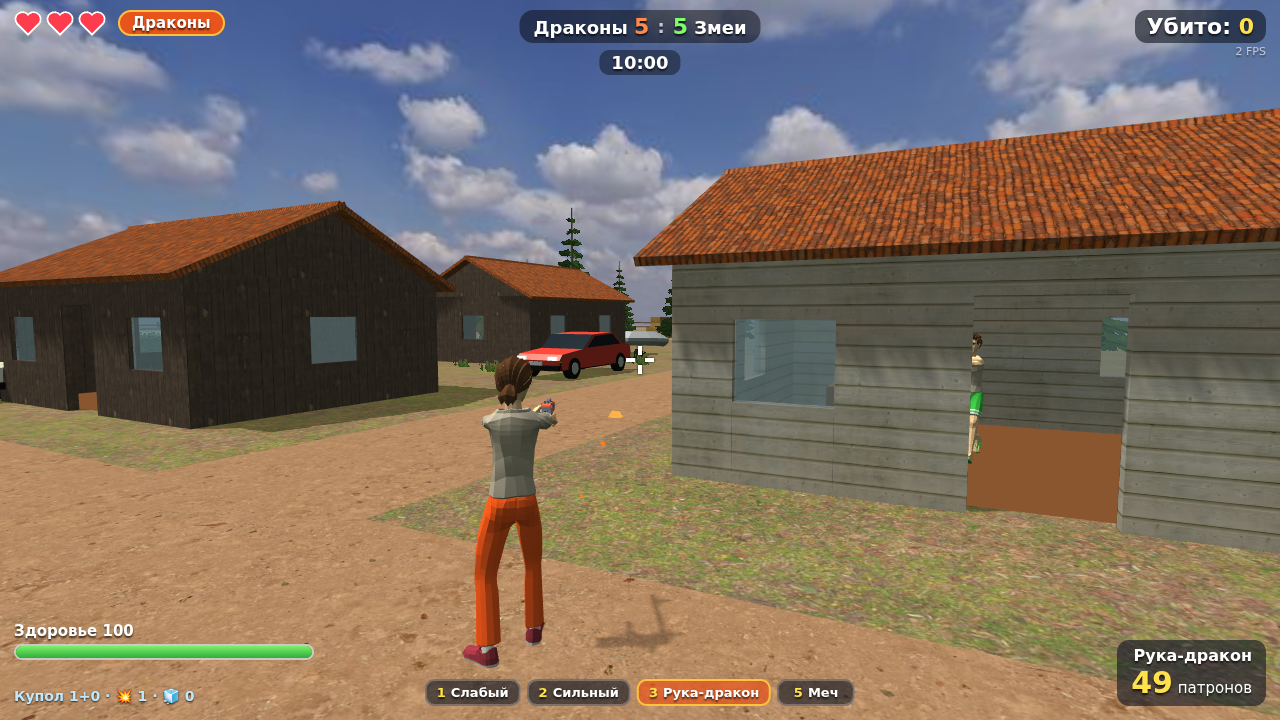
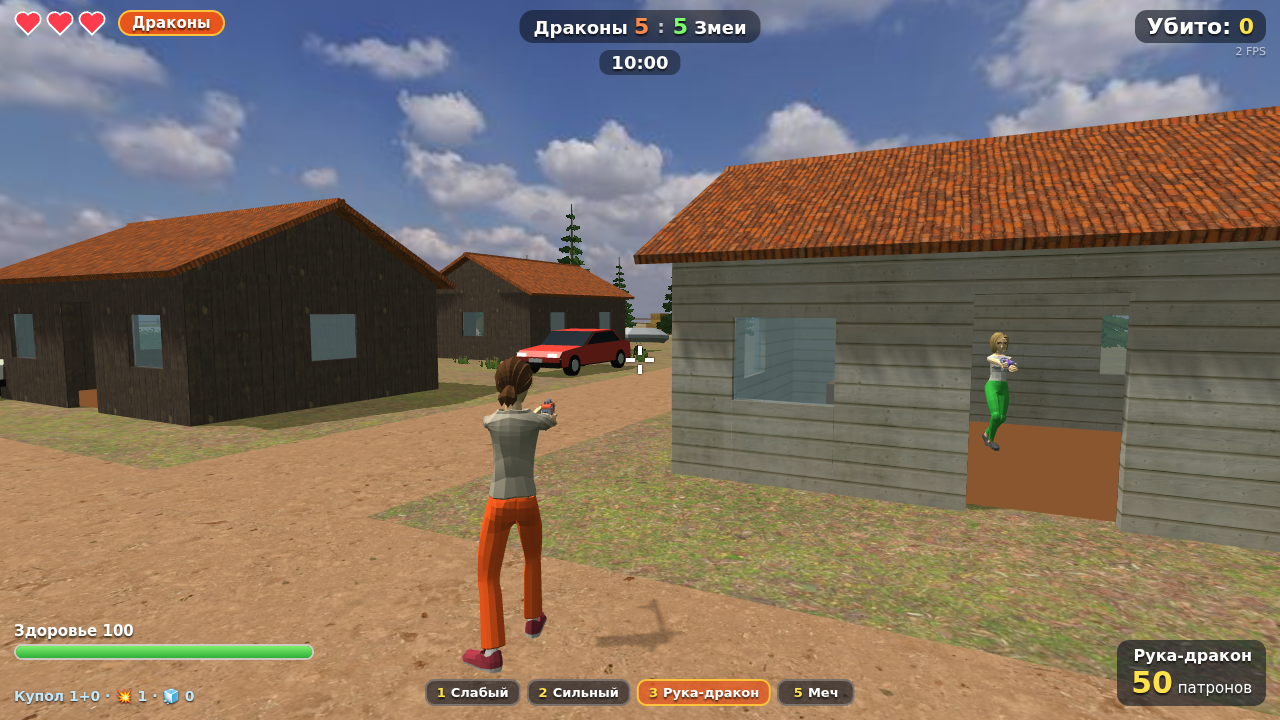
Level 3: solo at the factory, resources respawn elsewhere
90x90 m factory compound (sheds, chimney, stacked containers, bushes and
boulders), the player alone against 4 enemies with 3 lives each, no flags
and no animals: win by knocking out the whole enemy clan. Ammo chests and
medkits come back after their timer at a new random spot. Unlocked by a
win on level 2. Smoke: level 3 solo setup, relocating medkit, victory;
sticky test no longer flaky.

diff --git a/client/src/game.ts b/client/src/game.ts
@@ -266,10 +266,13 @@ export class Game {
 
     // Команды 5 на 5: сначала враги (botCount), потом союзники — на одного меньше, ведь игрок тоже в команде
     const enemy = enemyClan(opts.clan);
-    for (let i = 0; i < opts.botCount; i++) {
+    const enemies = (opts.level ?? 1) === 3 ? Math.min(4, opts.botCount) : opts.botCount;
+    for (let i = 0; i < enemies; i++) {
       this.bots.push(new Bot(scene, enemy, BOT_WEAPONS[i % BOT_WEAPONS.length]));
     }
-    for (let i = 0; i < opts.botCount - 1; i++) {
+    // Уровень 3 — соло: союзников нет
+    const allies = (opts.level ?? 1) === 3 ? 0 : opts.botCount - 1;
+    for (let i = 0; i < allies; i++) {
       this.bots.push(new Bot(scene, opts.clan, BOT_WEAPONS[(i + 1) % BOT_WEAPONS.length], true));
     }
     // В каждой команде двое штурмовиков: в свободное время идут за вражеским флагом
@@ -437,7 +440,7 @@ export class Game {
     // Места — свободные точки карты (детерминированно), по одной на зону
     const rnd = makeRng(31);
     // Зоны уровня 1, на уровне 2 растягиваются на большую карту
-    const k = this.world.level === 2 ? 1.5 : 1;
+    const k = this.world.level === 2 ? 1.5 : this.world.level === 3 ? 0.65 : 1;
     const zones: [number, number, number, number][] = (
       [
         [-40, -20, 40, 20],
@@ -471,6 +474,7 @@ export class Game {
         if (this.now >= m.respawnAt) {
           m.active = true;
           m.mesh.setEnabled(true);
+          this.relocate(m, 0.24);
         }
         continue;
       }
@@ -1175,7 +1179,9 @@ export class Game {
   private spawnAnimals(): void {
     const near = (x: number, z: number) => this.world.randomWalkPoint(this.rng, new Vector3(x, 0, z), 6);
     const place: [Animal["kind"], number, number][] =
-      this.world.level === 2
+      this.world.level === 3
+        ? []
+        : this.world.level === 2
         ? [
             ["wolf", 55, 60],
             ["wolf", 57, 62],
@@ -1768,8 +1774,8 @@ export class Game {
         return;
       }
     }
-    // Захват флагов
-    for (const owner of ["dragons", "snakes"] as const) {
+    // Захват флагов (на соло-уровне флагов нет — только перестрелка)
+    for (const owner of this.world.level === 3 ? [] : (["dragons", "snakes"] as const)) {
       const base = this.world.bases[owner];
       const cap = this.capture[owner];
       const inZone = (t: Target) =>
@@ -1826,6 +1832,7 @@ export class Game {
         else if (this.state === "playing") this.damagePlayer(dmg);
       },
       objective: (b) => {
+        if (this.world.level === 3) return null;
         // Свой флаг захватывают — все бегут защищать; иначе штурмовики идут за чужим
         if (this.capture[b.clan].by) return this.world.bases[b.clan].flagPoint;
         return b.attacker ? this.world.bases[enemyClan(b.clan)].flagPoint : null;
@@ -2036,12 +2043,21 @@ export class Game {
       if (!c.active && this.now >= c.respawnAt) {
         c.active = true;
         c.mesh.setEnabled(true);
+        this.relocate(c);
       }
       if (c.active) {
         c.mesh.position.y = c.pos.y + 0.32 + bob;
         c.mesh.rotation.y = this.now * 0.8;
       }
     }
+  }
+
+  /** Уровень 3: ресурс появляется снова, но в другом случайном месте */
+  private relocate(c: AmmoChest, lift = 0.3): void {
+    if (this.world.level !== 3) return;
+    const p = this.world.randomWalkPoint(Math.random);
+    c.pos.set(p.x, this.world.heightAt(p.x, p.z), p.z);
+    c.mesh.position.set(p.x, c.pos.y + lift, p.z);
   }
 
   // ---------------- Служебное ----------------

diff --git a/client/src/world.ts b/client/src/world.ts
@@ -179,11 +179,16 @@ export class World {
 
   constructor(private scene: Scene, private detail = 1, level = 1) {
     this.level = level;
-    MAP_HALF = level === 2 ? 100 : 64;
+    MAP_HALF = level === 2 ? 100 : level === 3 ? 45 : 64;
     // Подвал переезжает вместе с деревней (на уровне 2 она в северо-западном углу)
     const vo = level === 2 ? VILLAGE2 : { x: 0, z: 0 };
     CELLAR.room = { x0: -17.4 + vo.x, x1: -10.6 + vo.x, z0: 6.6 + vo.z, z1: 11.4 + vo.z };
     CELLAR.hole = { x0: -14.6 + vo.x, x1: -11.2 + vo.x, z0: 9.6 + vo.z, z1: 10.8 + vo.z };
+    if (level === 3) {
+      // Деревни нет — «люк» уводим за забор, крошечный и незаметный
+      CELLAR.room = { x0: 70, x1: 70.2, z0: 70, z1: 70.2 };
+      CELLAR.hole = { x0: 70, x1: 70.2, z0: 70, z1: 70.2 };
+    }
     // Старые процедурные доски брали 16 чисел из генератора карты — сохраняем раскладку
     for (let i = 0; i < 16; i++) this.rng();
     this.mWood = photoMat(scene, "weathered_planks");
@@ -196,6 +201,8 @@ export class World {
     this.buildGround();
     if (level === 2) {
       this.buildLevel2();
+    } else if (level === 3) {
+      this.buildLevel3();
     } else {
       this.buildRoads();
       this.buildBorder();
@@ -1088,6 +1095,33 @@ export class World {
     for (let i = 0; i < 26; i++) {
       const p = this.findFree(-96, -96, 96, 96, 3);
       if (p) this.placeStone(p.x, p.z);
+    }
+  }
+
+  // ---------- Уровень 3: соло на заводе ----------
+
+  private buildLevel3(): void {
+    this.buildBorder();
+    this.bases = {
+      dragons: this.buildBase("dragons", -36, 36, Math.PI * 0.75, Math.PI * 0.75),
+      snakes: this.buildBase("snakes", 36, -36, -Math.PI * 0.25, -Math.PI * 0.25),
+    };
+    this.buildFactory(0, 0);
+    // Немного кустов и валунов по краям — дополнительные укрытия
+    for (let i = 0; i < 18; i++) {
+      const p = this.findFree(-42, -42, 42, 42, 1.2);
+      if (p) this.placeBush(p.x, p.z);
+    }
+    for (let i = 0; i < 8; i++) {
+      const p = this.findFree(-42, -42, 42, 42, 2.5);
+      if (p) this.placeStone(p.x, p.z);
+    }
+    for (let i = 0; i < 12; i++) {
+      const p = this.findFree(-42, -42, 42, 42, 1);
+      if (p) {
+        this.ammoSpots.push(new Vector3(p.x, 0, p.z));
+        this.obstacles.push({ x0: p.x - 1, z0: p.z - 1, x1: p.x + 1, z1: p.z + 1 });
+      }
     }
   }
 

diff --git a/client/index.html b/client/index.html
@@ -52,6 +52,7 @@
           <span>Уровень:</span>
           <button data-level="1">1 · Деревня</button>
           <button data-level="2">2 · Большая карта</button>
+          <button data-level="3">3 · Соло на заводе</button>
         </div>
         <div id="loadout">
           <p class="sub">Снаряжение: до 4 видов оружия и 2 вида бомб</p>

diff --git a/client/src/main.ts b/client/src/main.ts
@@ -48,7 +48,7 @@ clanButtons.forEach((b) => b.addEventListener("click", () => selectClan(b.datase
 selectClan(clan);
 
 // ----- Уровни: следующий открывается победой на предыдущем -----
-const MAX_LEVEL = 2;
+const MAX_LEVEL = 3;
 let unlocked = 1;
 try {
   unlocked = Math.min(MAX_LEVEL, Math.max(1, Number(localStorage.getItem("cb_unlocked")) || 1));
